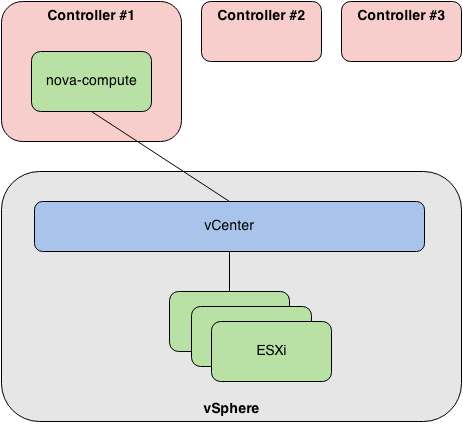
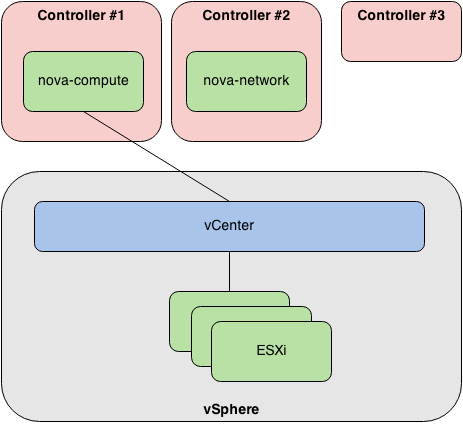
document "vCenter full scale HA support"
- describe how service behave on failure in Multi-node HA mode
- update screenshot in Reference Architecture which shows that
  nova-network and nova-compute can run on distinct controllers
- add limitation about security groups which are not support by
  nova-network with vCenter
- add limitation that vCenter 5.1 and later are supported
- add limitation about that we cannot select in which vCenter cluster
  virtual machines are started
- remove limitation about sparse HA support
- rename flatDHCP to FlatDHCP

Implements: blueprint vcenter-documentation-update-fuel-5.1

diff --git a/pages/reference-architecture/7000-vcenter.rst b/pages/reference-architecture/7000-vcenter.rst
@@ -42,7 +42,7 @@ The Nova Compute service runs on a Controller node,
 not on a separate Compute node.
 This means that, in the Multi-node Deployment mode,
 a user has a single Controller node
-with both controller and compute services running.
+with both compute and network services running.
 
 Unlike other hypervisor drivers
 that require the Nova Compute service to be running
@@ -63,18 +63,11 @@ Multi-node HA Deployment with vSphere integration
 .. image:: /_images/vcenter-reference-architecture.png
    :width: 50%
 
-In the Multi-node HA Deployment mode,
-the Nova Compute and Nova Network services run on a Controller node
-that is called the "Primary Controller".
-This is the first node in the Fuel database,
-which usually makes it the top node in the "Nodes" list in the Web UI
-and the node with the lowest ID in Fuel CLI output.
-These services cannot be moved to another Controller node
-if the Primary Controller node goes offline.
-This means that,
-while all the other OpenStack services operate in HA mode,
-the Nova Compute and Nova Network services are not protected from failure.
-See `LP1312653 <https://bugs.launchpad.net/fuel/+bug/1312653>`_.
+In the Multi-node HA Deployment mode, the Nova Compute and Nova Network
+services run on same or distinct Controller nodes.
+If some service fails it is restarted by :ref:`pacemaker-term` several times,
+if service fails to start or whole Controller node fails service is
+started on one of available Controllers.
 
 .. raw: pdf
 

diff --git a/pages/planning-guide/7000-vcenter-plan.rst b/pages/planning-guide/7000-vcenter-plan.rst
@@ -47,7 +47,6 @@ to create a Mirantis OpenStack environment
 that is integrated with VMware vSphere,
 the vSphere installation must be up and running.
 Please check that you completed the following steps:
-
 * Install vSphere
 * Install vCenter
 * Install ESXi
@@ -101,18 +100,17 @@ Follow the steps below:
 
 Limitations
 ------------------------------
-- Only :ref:`nova-network-term` with flatDHCP mode is supported
+- Only vCenter versions 5.1 and later are supported
+- It is not possible to specify the vCenter cluster
+  where virtual instances will be launched.
+- Only :ref:`nova-network-term` with FlatDHCP mode is supported
   in the current version of the integration.
 - OpenStack Block Storage service (Cinder)
   with VMware VMDK datastore driver is not supported;
   you can only use Cinder with the LVM over iSCSI option
   as the Cinder backend.
-- VMware vCenter can be deployed on Mirantis OpenStack
-  with or without high-availability (HA) configured.
-  Note, however, that the vCenter Nova plugin
-  runs on only one Controller node,
-  even if that Controller node is replicated to provide HA.
-  See `LP1312653 <https://bugs.launchpad.net/fuel/+bug/1312653>`_.
+- Each OpenStack environment can support one vCenter cluster.
+- :ref:`security-groups-term` are not supported.
 
 For background information about how vCenter support
 is integrated into Mirantis OpenStack, see :ref:`vcenter-arch`.
